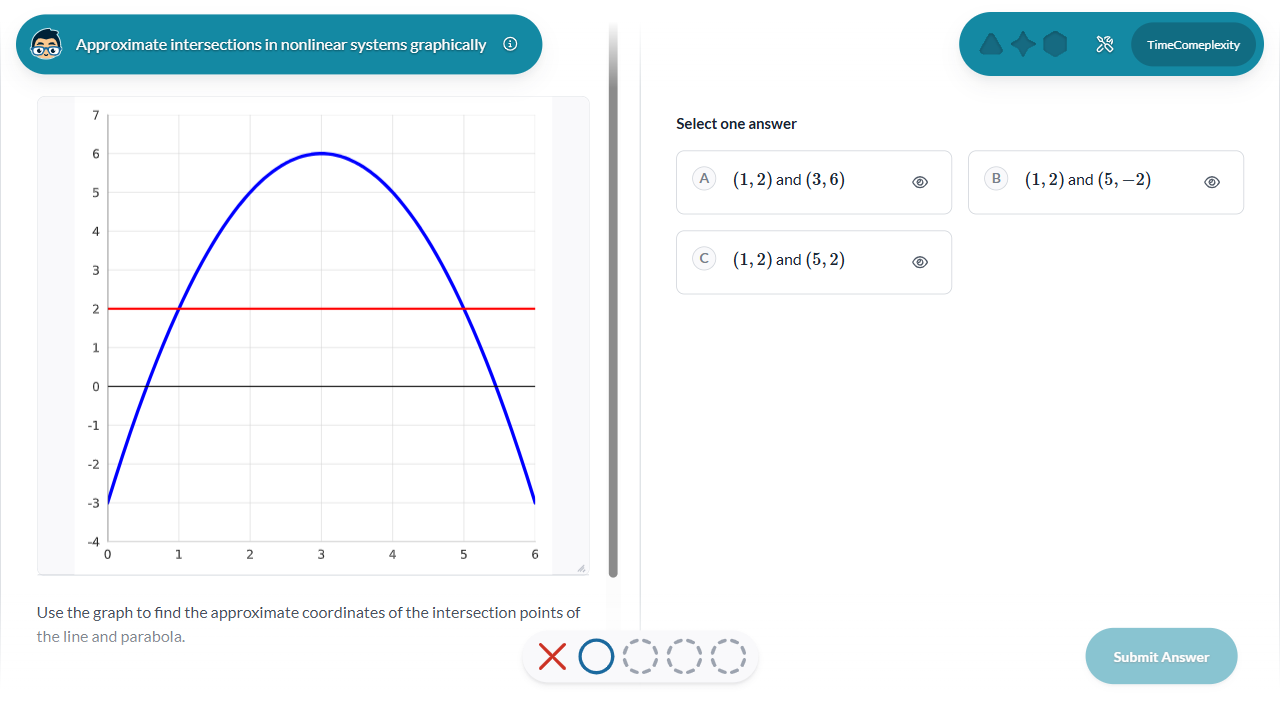
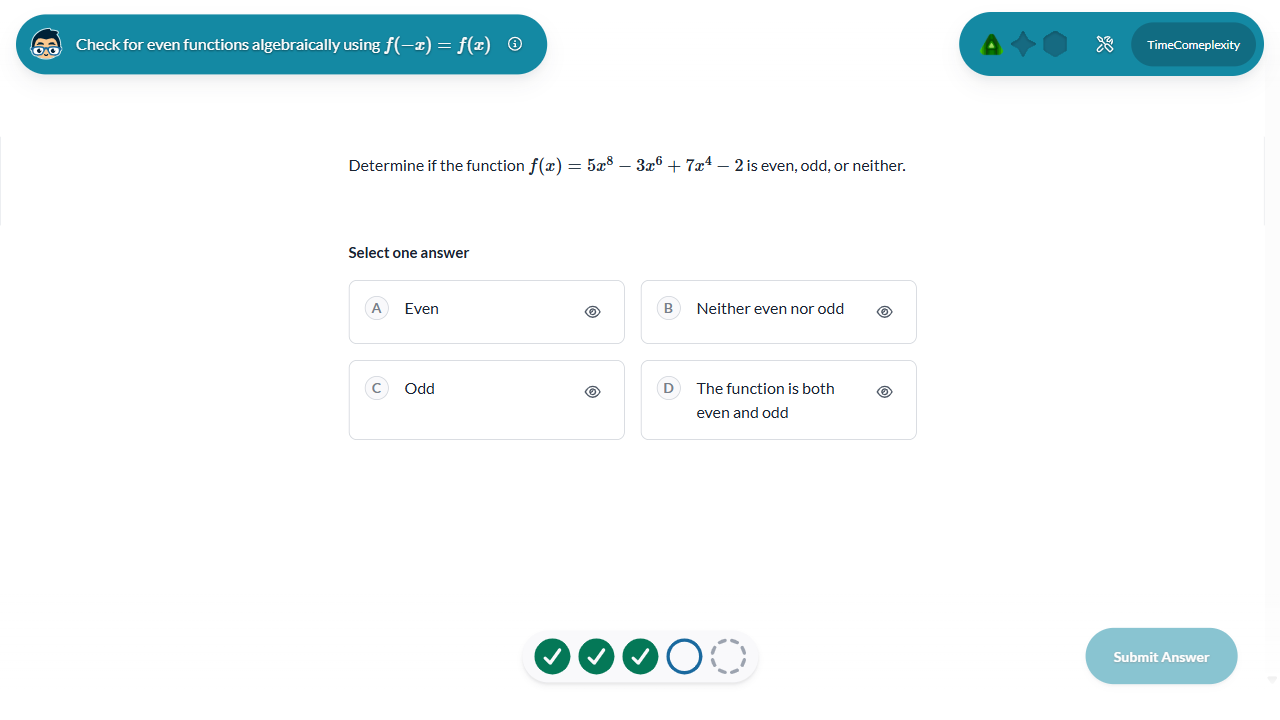
more

diff --git a/main.py b/main.py
@@ -13,13 +13,17 @@ import os
 import config
 
 URLS = [
-    "https://www.albert.io/adaptive/practice/019d218b-8bdc-7d7d-adf3-0caece89689e", 
+    "https://www.albert.io/adaptive/practice/019d26c7-79e4-719b-a661-779d302fa6ed", 
     "https://www.albert.io/adaptive/practice/019d1e63-834f-702d-aa8b-d75b75dccc35",
     "https://www.albert.io/adaptive/skill/8a34b30c-e5e0-4955-89e8-ed6802dda7e5",
     "https://www.albert.io/adaptive/skill/8b61d82e-3aca-4d19-af97-a2c8891b64a1",
 ]
 
-ALPHABET = both_cases_list = list(string.ascii_letters)
+NUMBER_TO_ALPHABET = both_cases_list = list(string.ascii_letters)
+ALPHABET_TO_NUMBER = {}
+
+for number, letter in enumerate(NUMBER_TO_ALPHABET):
+    ALPHABET_TO_NUMBER[letter] = number
 
 def sign_in(page: Page):
     page.goto("https://www.albert.io/log-in")
@@ -64,11 +68,31 @@ def extract_answer_choices(page : Page):
     answer_choices = ""
     for i, option in enumerate(options):
         inner_text = re.sub(r'\s+', ' ', option.inner_text()).strip()
-        answer_choices = answer_choices + " " + f"Option {ALPHABET[i]}: {inner_text}"
+        answer_choices = answer_choices + " " + f"Option {NUMBER_TO_ALPHABET[i]}: {inner_text}"
     return answer_choices
 
 def select_and_submit_answers(page : Page, answer_list):
-    print("test")
+    for letter in answer_list:
+        time.sleep(0.5)
+        to_number = ALPHABET_TO_NUMBER[letter]
+        choice = page.query_selector(f'[data-testid="mcq-option-{to_number}"]')
+        choice.click()
+    submit = page.query_selector(':text("Submit Answer")')
+    time.sleep(0.5)
+    submit.click()
+
+def move_on(page: Page):
+    letsgo_button = page.query_selector(':text("Let\'s go")')
+    next_button = page.query_selector(':text("Next Question")')
+    if letsgo_button:
+        letsgo_button.click()
+    elif next_button:
+        next_button.click()
+
+def albert_is_completed(page: Page):
+    achieved_advanced = page.query_selector(':text("You achieved \\"Advanced\\" on this skill level!")')
+    reached_advanced = page.query_selector(':text("You achieved \\"Advanced\\" on this skill level!")')
+    return (achieved_advanced is not None) or (reached_advanced is not None) 
 
 os.makedirs(config.SCREENSHOTS_DIR, exist_ok=True)
 
@@ -82,23 +106,30 @@ with sync_playwright() as playwright:
 
     for URL in URLS:
         page.goto(URL)
-        time.sleep(2)
+        time.sleep(0.5)
         skip_tour(page)
         time.sleep(0.5)
 
-        screenshot = page.screenshot(path=f"{config.SCREENSHOTS_DIR}/question.png")
-        current_type = get_question_type(page)
-        # while True:
-        #   print(extract_answer_choices(page))
-        #   time.sleep(5)
-        answer = solver.solveWithScreenshot(screenshot, current_type)
+        while not albert_is_completed(page):
+            screenshot = page.screenshot(path=f"{config.SCREENSHOTS_DIR}/question.png")
+            current_type = get_question_type(page)
+            # while True:
+            #   print(extract_answer_choices(page))
+            #   time.sleep(5)
+            answer = solver.solveWithScreenshot(screenshot, current_type)
+            print(answer)
+            response = answer[0].text.strip()
 
-        response = answer.content[0].text.strip()
+            print("response: " + response)        
 
-        print("response: " + response)
+            answers = json.loads(response) 
 
-        answers = json.loads(response) 
+            select_and_submit_answers(page, answers)
 
+            time.sleep(0.5)
 
+            move_on(page)
 
-        time.sleep(1000)
+            time.sleep(1)
+
+        time.sleep(2)

diff --git a/config.py b/config.py
@@ -24,17 +24,17 @@ SCREENSHOT_DELAY_MS = 1000
 # Prompts
 SYSTEM_PROMPT = """
     You are an answer extraction tool.
-    You ONLY output a JSON array of answer letters.
+    You ONLY output a JSON array of answer letters (lowercase).
     Never explain. Never add text. Only output the array.
     """
 
 GENERAL_PROMPT = """"
     This is a multiple choice question. 
     Respond with ONLY a JSON array of the correct answer letter(s).
-    Examples: ["A"] or ["A", "C"]
+    Examples: ["a"] or ["a", "b"]
     """
 PROMPTS = {
-    ProblemType.MCQ : "This is a multiple choice question with ONE correct answer. Reply with ONLY a JSON array with one letter. Example: [A]",
-    ProblemType.CHOOSEALL : "This is a choose all question with potential multiple correct answers. Reply with ONLY a JSON array with the letter choices. Example: [A, B, C]",
-    ProblemType.FITB : "This is a fill in the blank problem with multiple prompts. Here are the options: UNIMPLEMENTED, RETURN [A]"
+    ProblemType.MCQ : "This is a multiple choice question with ONE correct answer. Reply with ONLY a JSON array with one letter. Example: [a]",
+    ProblemType.CHOOSEALL : "This is a choose all question with potential multiple correct answers. Reply with ONLY a JSON array with the letter choices. Example: [a, b, c]",
+    ProblemType.FITB : "This is a fill in the blank problem with multiple prompts. Here are the options: UNIMPLEMENTED, RETURN [a]"
 }
